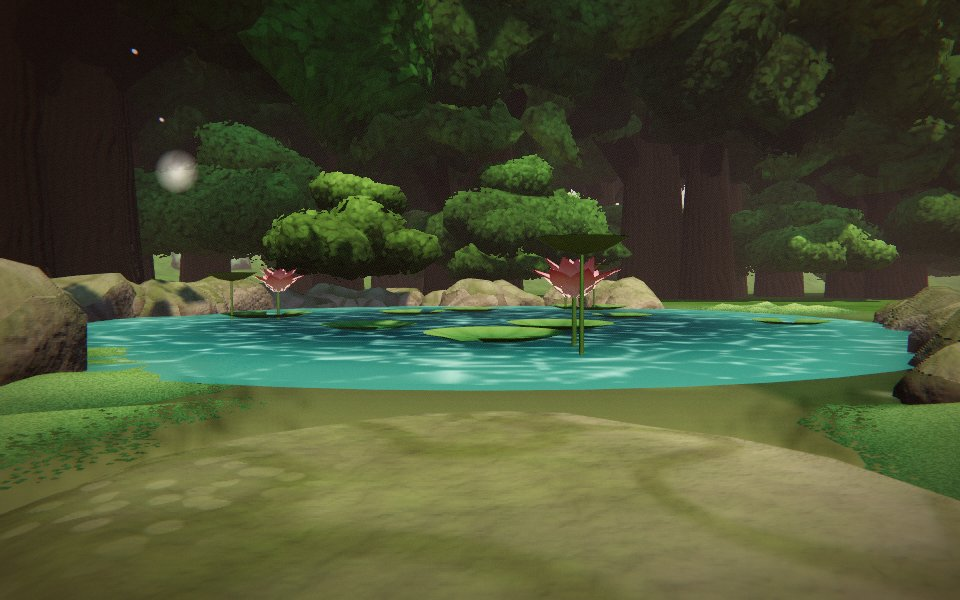
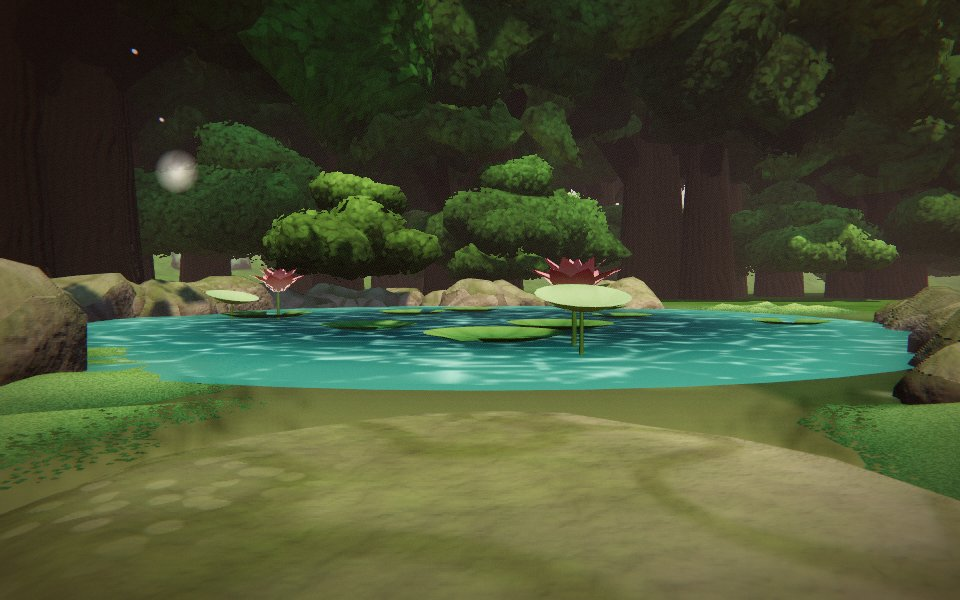
v-hidden: fix round 1 (mist env, reuse pool-toro, lotus leaf, budgets)

Changed region(s): [[0.5625, 0.39, 0.6562, 0.54], [0.2188, 0.45, 0.2812, 0.51]]

diff --git a/src/kit/hidden/pool.js b/src/kit/hidden/pool.js
@@ -6,7 +6,8 @@
 import * as THREE from 'three';
 import { TAU, sstep, canvas2d, canvasTexture, merge, indexed, rockGeometry, withUv } from '../craft.js?v=20261113a';
 import { fitRock, variantRock, placed, bake, DETAIL, rockMaterials } from '../rocks/stone.js?v=20261113a';
-import { buildStoneLantern } from '../lanterns/build.js?v=20261113a';
+import { assets as lanternAssets } from '../lanterns/index.js?v=20261113a';
+import { defaultParams } from '../contract.js?v=20261113a';
 import {
   nightnessAt, dayLightAt, calmAt, hourOf, shared, glowTexture, leafMaterial, freePrivate,
   polarDisc, bakeAt, tint, glowPoints, compose, single
@@ -284,8 +285,8 @@ function lotusGeometry(tier, flower, rng, p) {
   });
   if (tier !== 'far') parts.push(tint(new THREE.CylinderGeometry(0.036, 0.03, 0.03, 8).translate(0, top + 0.04, 0), 0xd6c866));
   if (tier === 'hero') {                                             // the standing leaf: lotus raises its leaves, lilies do not
-    const a = rng() * TAU, lx = Math.cos(a) * 0.36, lz = Math.sin(a) * 0.36, lh = 0.3 + rng() * 0.12;
-    const dish = polarDisc(0.19, 2, 18, { y: (rn) => 0.07 * rn * rn, color: (rn) => { const k = 0.8 + 0.2 * rn; return [0.17 * k, 0.34 * k, 0.16 * k]; } }).translate(lx, lh, lz);
+    const a = rng() * TAU, lx = Math.cos(a) * 0.36, lz = Math.sin(a) * 0.36, lh = 0.12 + rng() * 0.06;
+    const dish = polarDisc(0.2, 3, 18, { y: (rn) => 0.07 * Math.pow(rn, 1.6), color: (rn) => { const k = 0.9 + 0.5 * rn; return [0.22 * k, 0.42 * k, 0.2 * k]; } }).rotateZ(0.22).rotateY(a).translate(lx, lh, lz);
     parts.push(dish, tint(new THREE.CylinderGeometry(0.008, 0.011, lh + 0.08, 4, 1, true).translate(lx, (lh - 0.08) / 2, lz), 0x5f8a4a));
   }
   const geo = indexed(merge(parts));
@@ -352,7 +353,8 @@ export function buildMoonPool(ctx, L, p) {
     lotus: buildLotus(ctx, L.lotus, { height: 1 }, 'bloom'),
     motes: sub(buildMotes, L.motes, { density: p.density })
   };
-  const toro = buildStoneLantern(ctx, { index: 0 }, { girth: 1, flame: 0.5 }, { kind: 'kasuga', height: 1.14, kasaR: 0.3, halo: { scale: 1.5, fog: false }, base: 0.2, gain: 2.0 });
+  const toroDef = lanternAssets.find((d) => d.id === 'pool-toro');   // the lanterns family's own pool toro (classic does not rotate it by L.toro.angle)
+  const toro = toroDef.build(ctx, L.toro, defaultParams(toroDef.params));
   toro.group.name = 'toro';
   return compose([
     ['apron', near.apron], ['water', near.water], ['moon', near.moon, { x: L.moon.x, y: L.moon.y, z: L.moon.z }], ['rim', near.rim],

diff --git a/src/kit/budgets.js b/src/kit/budgets.js
@@ -49,6 +49,16 @@ export const KIT_LIMITS = Object.freeze({
  */
 export const BUDGET_EXCEPTIONS = Object.freeze({
   // 'tea-house': { hero: { triangles: 40000, meshes: 40 }, why: 'a whole building with interior-facing walls' }
+  // v-hidden: the two wholes are whole clearings (see docs/fable/handoff/v-hidden.md for measured numbers)
+  'moon-pool': {
+    hero: { meshes: 20, materials: 11 }, mid: { meshes: 18, materials: 10 }, far: { triangles: 1500, meshes: 12, materials: 9 },
+    why: 'a whole pool: apron, water + caustic, moon, glints, 34 rim stones, seat, pads, lotus, motes and the lanterns-family toro, each its own material (all private ones are live light)'
+  },
+  'lantern-glade': {
+    hero: { materials: 10 }, mid: { meshes: 10, materials: 10 }, far: { triangles: 1900, meshes: 10, materials: 10 },
+    why: 'a whole clearing: floor, noded culms + blades, one lantern set (3 draws for 11 lanterns), seat, boulder, fireflies'
+  },
+  'glade-lanterns': { far: { materials: 3 }, why: 'frame, lit paper and halo are three materials even at far (the halo is the night read)' },
   // classic grove 82.3k hero tris; modular 89.9k/12.5k/4.7k; ruling R40, v-greenery handoff
   'bamboo-groves': {
     hero: { triangles: 92000 }, mid: { triangles: 13000 }, far: { triangles: 5000 },

diff --git a/src/kit/hidden/common.js b/src/kit/hidden/common.js
@@ -25,7 +25,7 @@ export const hourOf = (env) => (env && typeof env.hour === 'number' ? env.hour :
 /** Daylight the caustics need (HiddenPlaces.update: smooth(0.05, 0.4, sunUp)). */
 export const dayLightAt = (hour) => sstep(0.05, 0.4, sunUpAt(hour));
 /** Rain quiets the pool's drifting things (classic: weather rain or mist halves them). */
-export const calmAt = (env) => 1 - 0.5 * sstep(0.15, 0.5, (env && env.wet) || 0);
+export const calmAt = (env) => 1 - 0.5 * sstep(0.15, 0.5, Math.max((env && env.wet) || 0, (env && env.mist) || 0));
 
 /* ------------------------------------------------------- shared textures --- */
 

diff --git a/src/main.js b/src/main.js
@@ -581,9 +581,10 @@ class Game {
 
   /** The world state kit instances respond to (§3.3 `update(dt, t, env)`), one reused object. */
   assetEnv() {
-    const env = this._assetEnv || (this._assetEnv = { hour: 12, wind: 1, wet: 0, snow: 0, lanternOn: false });
+    const env = this._assetEnv || (this._assetEnv = { hour: 12, wind: 1, wet: 0, mist: 0, snow: 0, lanternOn: false });
     env.hour = this.sky.dayTime;
     env.wet = this.sky.weatherAmount('rain');
+    env.mist = this.sky.weatherAmount('mist');
     env.snow = this.sky.weatherAmount('snow');
     env.lanternOn = !!this.city._lanternsLit;
     return env;

diff --git a/src/kit/runtime.js b/src/kit/runtime.js
@@ -169,7 +169,7 @@ export class AssetRuntime {
     this._createMaterials = createMaterials;
     this._fetchOverrides = fetchOverrides;
     this._preload = null;
-    this._env = { hour: 12, wind: 1, wet: 0, snow: 0, lanternOn: false };
+    this._env = { hour: 12, wind: 1, wet: 0, mist: 0, snow: 0, lanternOn: false };
     for (const p of swap.problems) this.warnOnce('swap:' + p, p);
   }
 

diff --git a/docs/fable/handoff/v-hidden.md b/docs/fable/handoff/v-hidden.md
@@ -27,7 +27,7 @@ One: `leafMaterial` = `km.bamboo({ color: 0xffffff, vcol: true, side: DoubleSide
 - No `layout.bind` exists for hidden places; nothing binds a part.
 
 ## 4. Behaviour the kit owns (classic handles stay null)
-Water emissive, caustic opacity and drift, the moon sprite and its glints, the motes, the fireflies, every glade lantern's kindle and halo run in the kit's own `update(dt, t, env)` from `env.hour` (nightness and daylight are the Sky's sun path, `common.js` `sunUpAt`) and `env.wet` (rain halves the calm things, as classic weather rain/mist did; mist alone is not in `env`, so a misty clear-sky pool stays at full calm: one small deviation). The classic update() guards (`if (this.causticMat)`, `this.lanterns.length`, `poolMotePoints`) skip a kit part, as f3 intended. `this.stalkTops` is layout data and stays.
+Water emissive, caustic opacity and drift, the moon sprite and its glints, the motes, the fireflies, every glade lantern's kindle and halo run in the kit's own `update(dt, t, env)` from `env.hour` (nightness and daylight are the Sky's sun path, `common.js` `sunUpAt`) and `env.wet` (rain halves the calm things, as classic weather rain/mist did; `env.mist` now exists (main.js assetEnv, runtime.js initial env), so rain and mist both halve them as classic did). The classic update() guards (`if (this.causticMat)`, `this.lanterns.length`, `poolMotePoints`) skip a kit part, as f3 intended. `this.stalkTops` is layout data and stays.
 
 ## 5. Footprint
 No waiver. Every id's footprint is `layout.footprint` (colliders, exclusions, water rects, the two rest anchors are untouched: `--systems` modular still lists 135 colliders / 5 water rects / 4 exclusions / 5 anchors). The kit pool sits on the same registry order because the parent registers the whole footprint once.
@@ -51,3 +51,7 @@ Imported read-only: lanterns `buildStoneLantern`, `washiTexture`, `haloTexture`,
 
 ## 8. Hot-file wiring
 None needed. `hidden_places.js` already routes all 15 ids.
+
+## Fix round 1 notes
+- Lantern sway (3 cm bob) is dropped in the kit set; swap `glade-lanterns` as a whole with the glade (per-part children cost 3 draws each).
+- `rimVariants` is a module cache of chiselled geometry (placed() clones), never freed.

diff --git a/docs/fable/status/v-hidden.md b/docs/fable/status/v-hidden.md
@@ -48,3 +48,10 @@ Draw calls fall by 26 and 17 (pad and lotus meshes merge into one, the glade's 4
 ## Concerns
 - Size: about 1.4k source lines (src/kit/hidden 5 files) plus the lab tiles; within the ~1500 guide.
 - 14 contract rows fail until handoff §1 is applied (budget exceptions for the two wholes).
+
+## Fix round 1
+- Merged origin/fable/integration (kit index regenerated, 10 families). Committed budgets.js exceptions; added `env.mist` (main.js assetEnv, runtime.js initial env); `calmAt` uses max(wet, mist).
+- Pool toro now built from the lanterns family's `pool-toro` asset def (defaultParams); classic does not rotate it by `angle` (only positions it), so no ry.
+- Lotus standing leaf: lowered (12-18 cm), cupped, tilted, lighter; moon-pool-12/22-cat-modular re-shot and Read.
+- Checks: kit_contract_test --family hidden 1232 checks 0 failed (committed tree); footprint_golden classic EQUAL; --systems EQUAL; kit_check 153 OK; check_syntax 91 OK; classic boot: errors [] warnings [].
+- Known: lantern sway dropped; rim colours are the rocks default.
